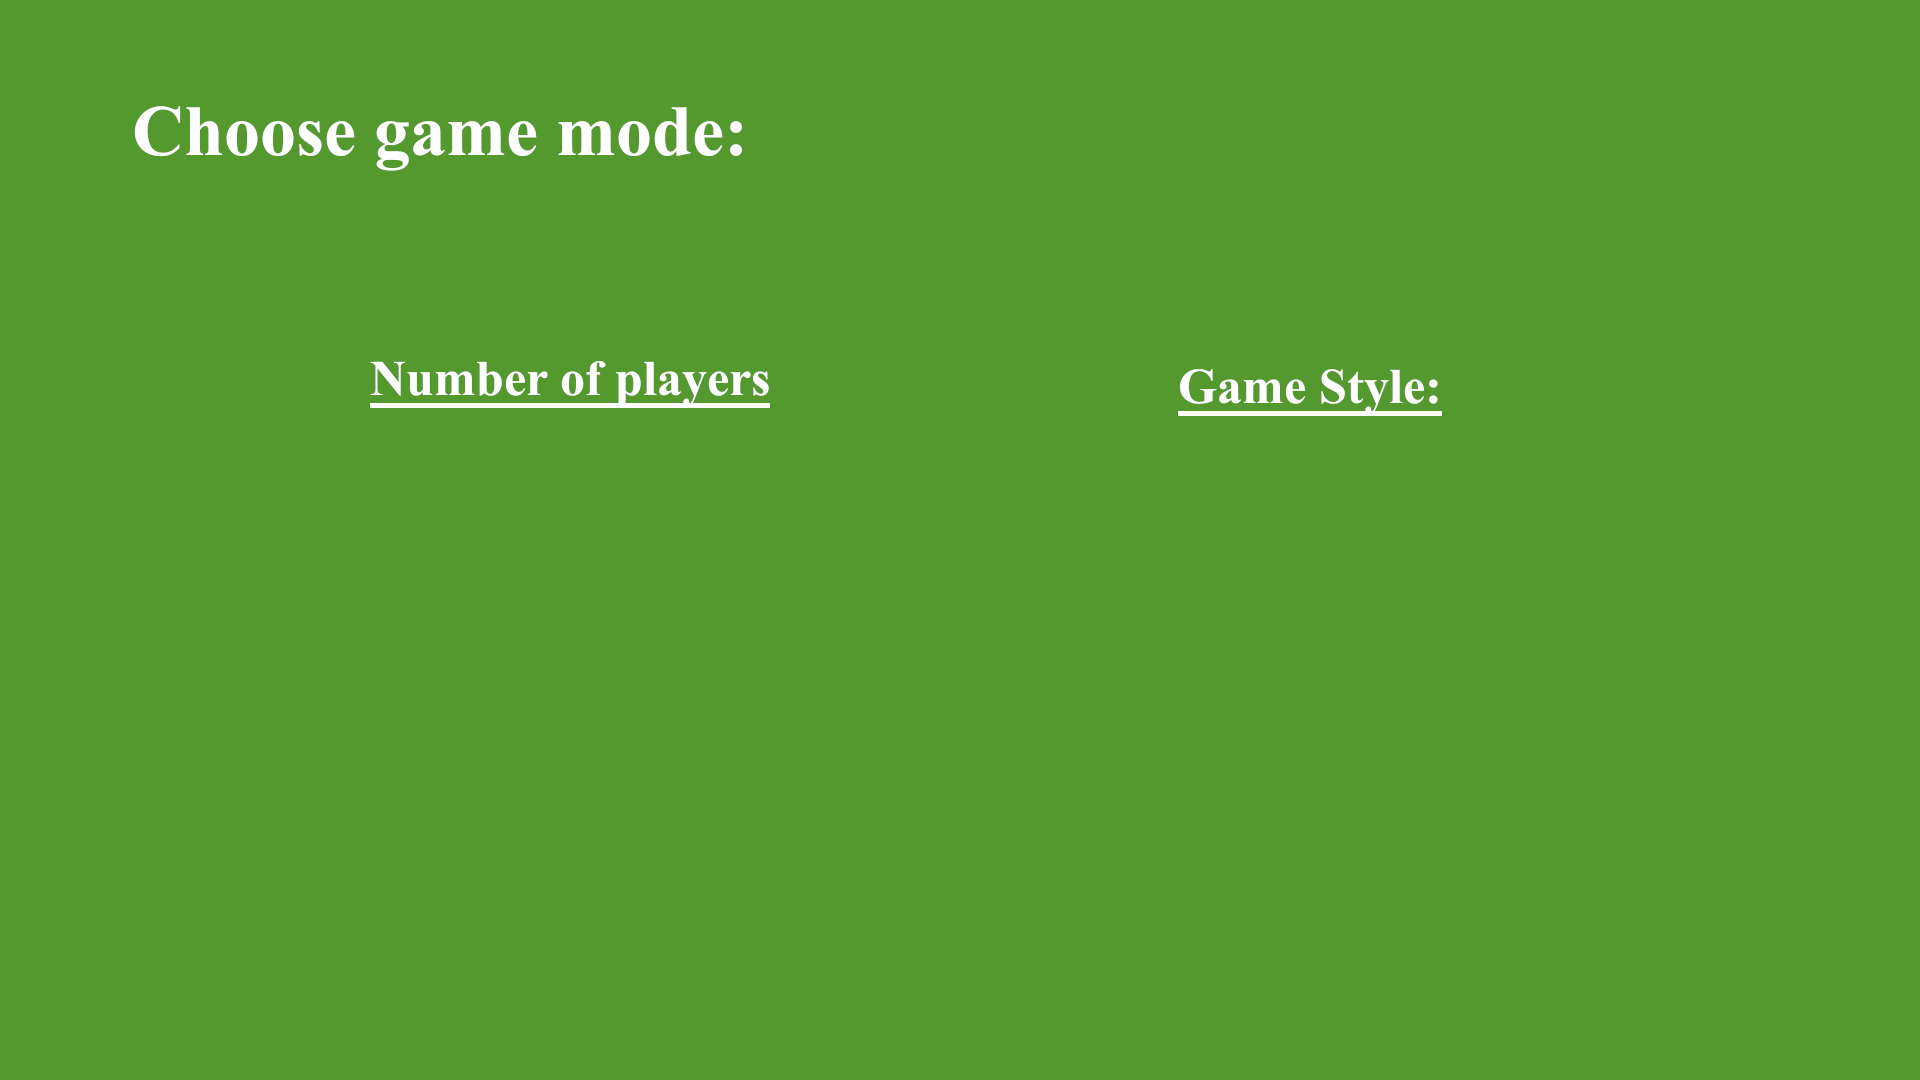
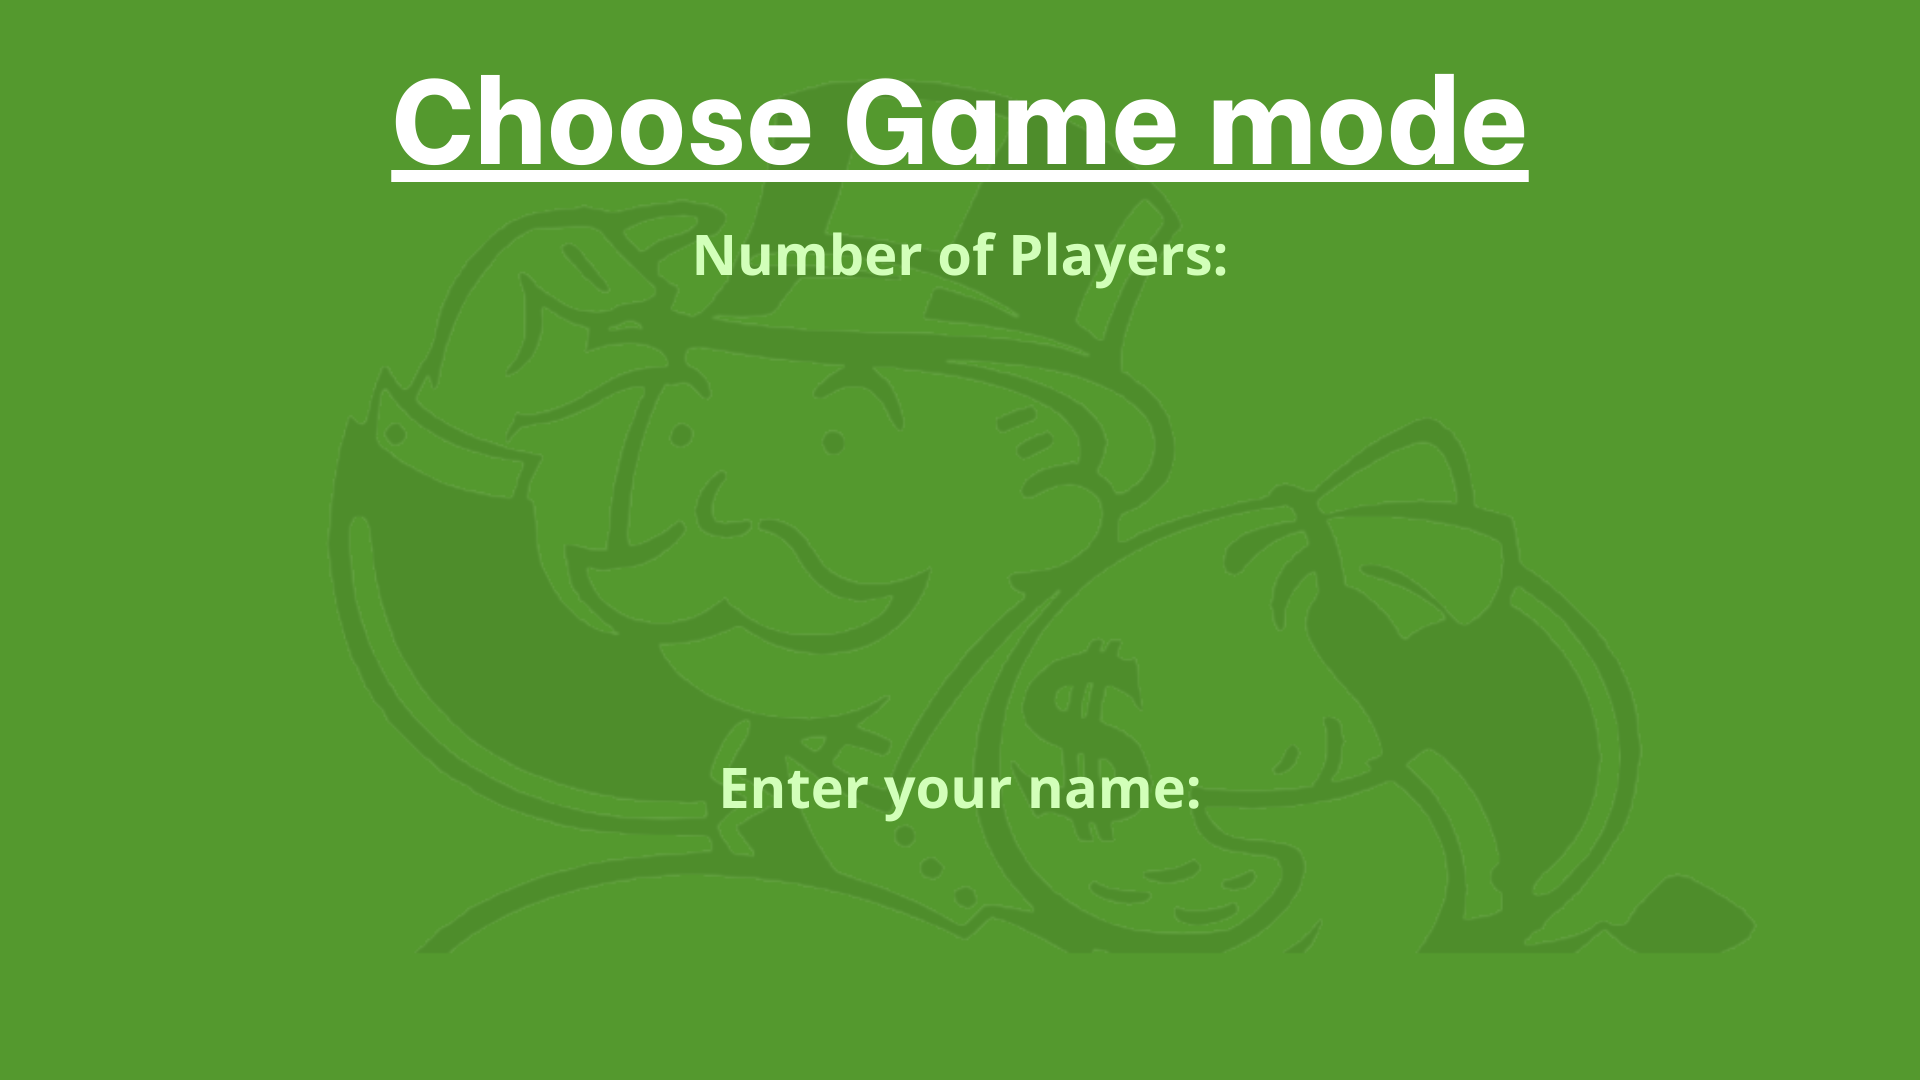
Added 2-player screen layout and old changes in images i missed in previous commits

diff --git a/Virtual Monopoly Deal/src/GUI/GamePlayScreen.java b/Virtual Monopoly Deal/src/GUI/GamePlayScreen.java
@@ -21,6 +21,7 @@ public class GamePlayScreen extends javax.swing.JFrame {
     private boolean discardDeckPressed =  false;
     private boolean cardDeckPressed = false;
     private boolean endTurnEarlyPressed = false;
+    private int numberOfPlayers =0;
     //shouldnt need this 2D array anymore, but keeping in case we do.
  //   private int[][] yourPropertySlots = new int[4][10]; //2D array used to store information on whether or not a specified property slot was pressed or not. If one was pressed, a 1 will be
                                                        //temporarily placed in the correct row column association with the property slot button.
@@ -32,8 +33,6 @@ public class GamePlayScreen extends javax.swing.JFrame {
      */
     public GamePlayScreen() {
         initComponents();
-        
-        
         
         //add handslot buttons to arraylist
         handSlots.add(handSlot_1);
@@ -93,9 +92,9 @@ public class GamePlayScreen extends javax.swing.JFrame {
         handSlot_11 = new javax.swing.JButton();
         handSlot_12 = new javax.swing.JButton();
         propertiesLabel = new javax.swing.JLabel();
+        discardDeckButton = new javax.swing.JButton();
         moneyLabel = new javax.swing.JLabel();
         discardDeckLabel = new javax.swing.JLabel();
-        discardDeckButton = new javax.swing.JButton();
         deckButton = new javax.swing.JButton();
         deckLabel = new javax.swing.JLabel();
         viewMenuButton = new javax.swing.JButton();
@@ -517,16 +516,6 @@ public class GamePlayScreen extends javax.swing.JFrame {
         propertiesLabel.setText("Properties:");
         jLayeredPane1.add(propertiesLabel, new org.netbeans.lib.awtextra.AbsoluteConstraints(310, 230, -1, -1));
 
-        moneyLabel.setFont(new java.awt.Font("Eras Demi ITC", 0, 24)); // NOI18N
-        moneyLabel.setForeground(new java.awt.Color(255, 255, 255));
-        moneyLabel.setText("Money:");
-        jLayeredPane1.add(moneyLabel, new org.netbeans.lib.awtextra.AbsoluteConstraints(150, 230, -1, -1));
-
-        discardDeckLabel.setFont(new java.awt.Font("Eras Demi ITC", 0, 24)); // NOI18N
-        discardDeckLabel.setForeground(new java.awt.Color(255, 255, 255));
-        discardDeckLabel.setText("Discard Deck:");
-        jLayeredPane1.add(discardDeckLabel, new org.netbeans.lib.awtextra.AbsoluteConstraints(980, 0, -1, -1));
-
         discardDeckButton.setIcon(new javax.swing.ImageIcon(getClass().getResource("/images/empty_slot.png"))); // NOI18N
         discardDeckButton.setBorder(null);
         discardDeckButton.setContentAreaFilled(false);
@@ -536,6 +525,16 @@ public class GamePlayScreen extends javax.swing.JFrame {
             }
         });
         jLayeredPane1.add(discardDeckButton, new org.netbeans.lib.awtextra.AbsoluteConstraints(980, 30, -1, -1));
+
+        moneyLabel.setFont(new java.awt.Font("Eras Demi ITC", 0, 24)); // NOI18N
+        moneyLabel.setForeground(new java.awt.Color(255, 255, 255));
+        moneyLabel.setText("Money:");
+        jLayeredPane1.add(moneyLabel, new org.netbeans.lib.awtextra.AbsoluteConstraints(150, 230, -1, -1));
+
+        discardDeckLabel.setFont(new java.awt.Font("Eras Demi ITC", 0, 24)); // NOI18N
+        discardDeckLabel.setForeground(new java.awt.Color(255, 255, 255));
+        discardDeckLabel.setText("Discard Deck:");
+        jLayeredPane1.add(discardDeckLabel, new org.netbeans.lib.awtextra.AbsoluteConstraints(980, 0, -1, -1));
 
         deckButton.setIcon(new javax.swing.ImageIcon(getClass().getResource("/images/back_of_card.png"))); // NOI18N
         deckButton.setBorder(null);
@@ -3565,7 +3564,19 @@ public class GamePlayScreen extends javax.swing.JFrame {
     public void hideHandMenu(){
          yourHandPanel.setVisible(false);
     }
-        
+    
+    
+    public void hideThirdPlayer(){
+       
+        player3PlayArea.setVisible(false);
+        moneyLabel.setVisible(false);
+        propertiesLabel.setVisible(false);
+        tableBackground.setIcon(new javax.swing.ImageIcon(getClass().getResource("/images/table background Two Players.png")));
+    }
+    
+    public void setNumberOfPlayers(int numPlayers){
+        numberOfPlayers = numPlayers;
+    }
     
     /**
      * @param args the command line arguments

diff --git a/Virtual Monopoly Deal/src/Main/Game.java b/Virtual Monopoly Deal/src/Main/Game.java
@@ -178,6 +178,9 @@ public class Game {
                     bot_2.addToHand(gameDeck.getTopCard());
                 }
             }
+            else{
+                GPS.hideThirdPlayer();
+            }
         }
         else{ //if numberOfPlayers was some how not > 0 after player selected amount of players. Will happen if player hits "Go" while not selecting number of players from PlayScreen.java
             System.out.println("Error when making player and bots. NumberOfPlayers = "+numberOfPlayers);
@@ -567,5 +570,5 @@ public class Game {
         playCount = 3;
         System.out.println("Ending turn early...");
     }
-     
+   
 }

diff --git a/Virtual Monopoly Deal/src/GUI/PlayScreen.java b/Virtual Monopoly Deal/src/GUI/PlayScreen.java
@@ -121,6 +121,7 @@ public class PlayScreen extends javax.swing.JFrame {
         playerName = jTextField1.getText();
         
         GPS = Main.Main.GPS;
+         GPS.setNumberOfPlayers(numberOfPlayers);
         GPS.setVisible(true);
         toGamePlayScreen = true;
         dispose();//closes the jframe
